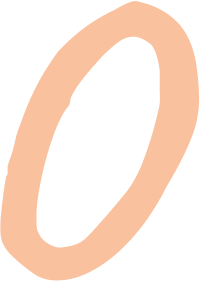
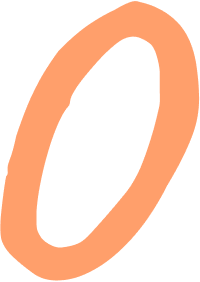
fix scoreboard, add quit button, change color scheme

diff --git a/resources/style.css b/resources/style.css
@@ -1,45 +1,52 @@
 /* Global Styles */
 window {
-  background: #181c4e;
-  font-family: "Comic Sans MS", "Chalkboard SE", "Comic Neue", sans-serif;
-  line-height: 0.85;
+  /* lighter, cheerful background with subtle radial texture feel */
+  background: linear-gradient(45deg, #67bbff, #67ffb6 100%);
+  /* playful but widely-available fallback font stack */
+  font-family: "Comic Neue", "Comic Sans MS", "Chalkboard SE", "Trebuchet MS",
+    sans-serif;
+  line-height: 1.15;
+  color: #21304a; /* general text color */
 }
 
 /* Typography */
 .h1 {
-  font-size: 96px;
+  font-size: 72px;
   font-weight: bold;
+  color: #cd5974;
 }
 
 .h2 {
-  font-size: 48px;
+  font-size: 36px;
   font-weight: bold;
+  color: #cd5974;
 }
 
 .h3 {
-  font-size: 24px;
+  font-size: 20px;
   font-weight: bold;
+  color: #cd5974;
 }
 
 /* Color Classes */
 .x {
-  color: #9efae4;
+  color: #499eff;
 }
 
 .o {
-  color: #fac19e;
+  color: #ff9f6b;
 }
 
 .easy {
-  color: #99ff99;
+  color: #9ee493;
 }
 
 .medium {
-  color: #ffff99;
+  color: #ffd97d;
 }
 
 .hard {
-  color: #ff9999;
+  color: #ff7b95;
 }
 
 /* Animations */
@@ -57,13 +64,13 @@ window {
 
 @keyframes glowing {
   0% {
-    box-shadow: 0 0 5px #3f4aad;
+    box-shadow: 0 0 6px rgba(0, 0, 0, 0.2);
   }
   50% {
-    box-shadow: 0 0 20px #3f4aad;
+    box-shadow: 0 0 18px rgba(0, 0, 0, 0.2);
   }
   100% {
-    box-shadow: 0 0 5px #3f4aad;
+    box-shadow: 0 0 6px rgba(0, 0, 0, 0.2);
   }
 }
 
@@ -92,16 +99,24 @@ window {
 .button-normal,
 .button-menu,
 dropdown > button {
-  background: #2f399d;
+  background: linear-gradient(180deg, #6b8cff 0%, #4d6df7 100%);
+  color: white;
   border-radius: 20px;
-  padding: 20px;
+  padding: 15px;
   transition: all 200ms;
+  box-shadow: 0 6px 0 #364cae;
+  border: none;
+}
+
+.button-normal > image {
+  padding: 20px;
+  -gtk-icon-transform: scale(2);
 }
 
 .button-normal:hover,
 .button-menu:hover,
 dropdown button:hover {
-  background: #3f4aad;
+  transform: translateY(-4px);
 }
 
 .button-round {
@@ -109,12 +124,8 @@ dropdown button:hover {
 }
 
 .button-menu {
-  font-size: 48px;
+  font-size: 44px;
   font-weight: bold;
-}
-
-.button-menu:hover {
-  transform: translateY(-2px);
 }
 
 .button-player {
@@ -128,7 +139,7 @@ dropdown > button {
 
 /* Game Board */
 .sboard {
-  background: #12153b;
+  background: rgba(255, 255, 255, 0.4);
   border-radius: 20px;
   padding: 10px 20px;
 }
@@ -140,27 +151,28 @@ dropdown > button {
 
 .cell {
   border: none;
-  background: #181c4e;
+  background: none;
 }
 
 .cell-center {
-  border: #b1b5e7 4px solid;
+  border: #ebefff 4px solid;
 }
 
 .cell-vertical {
-  border-left: #b1b5e7 4px solid;
-  border-right: #b1b5e7 4px solid;
+  border-left: #ebefff 4px solid;
+  border-right: #ebefff 4px solid;
 }
 
 .cell-horizontal {
-  border-top: #b1b5e7 4px solid;
-  border-bottom: #b1b5e7 4px solid;
+  border-top: #ebefff 4px solid;
+  border-bottom: #ebefff 4px solid;
 }
 
 /* Dropdown Style */
 popover.menu > contents,
 listview {
-  background: #2f399d;
+  background: linear-gradient(180deg, #6b8cff, #4d6df7);
+  color: #fff;
 }
 
 popover.menu > contents {
@@ -173,5 +185,5 @@ listview row {
 
 listview row:hover,
 listview row:selected {
-  background: #3f4aad;
+  background: #5662ca;
 }

diff --git a/src/app/main_menu.c b/src/app/main_menu.c
@@ -55,7 +55,10 @@ void main_menu(GtkBuilder* builder, GtkStack* stack) {
       GTK_WIDGET(gtk_builder_get_object(builder, "two_player"));
   GtkWidget* audio_toggle =
       GTK_WIDGET(gtk_builder_get_object(builder, "audio_toggle"));
-  if (!one_player || !two_player || !audio_toggle) {
+  GtkWidget* quit_game =
+      GTK_WIDGET(gtk_builder_get_object(builder, "quit_game"));
+  GtkWindow* window = GTK_WINDOW(gtk_builder_get_object(builder, "window"));
+  if (!one_player || !two_player || !audio_toggle || !quit_game || !window) {
     g_printerr("Error: Could not find main menu buttons.\n");
     return;
   }
@@ -65,4 +68,6 @@ void main_menu(GtkBuilder* builder, GtkStack* stack) {
   g_signal_connect_swapped(two_player, "clicked",
                            G_CALLBACK(two_player_clicked), builder);
   g_signal_connect(audio_toggle, "toggled", G_CALLBACK(toggle_audio), NULL);
+  g_signal_connect_swapped(quit_game, "clicked", G_CALLBACK(gtk_window_close),
+                           window);
 }

diff --git a/src/app/board_gui.c b/src/app/board_gui.c
@@ -312,6 +312,7 @@ static gboolean process_ai_move(gpointer user_data) {
  * @param stack Pointer to the GtkStack for navigation.
  */
 static void to_main_menu(GtkStack* stack) {
+  reset_scoreboard();
   reset_game_state();
   gtk_stack_set_visible_child_name(stack, "main_menu");
 }
@@ -349,6 +350,7 @@ static void change_difficulty(GtkDropDown* dropdown,
   // Only reset if difficulty actually changed
   if (g_game_state->difficulty == difficulty) return;
   set_difficulty(difficulty);
+  reset_scoreboard();
   reset_game_state();
 }
 

diff --git a/src/shared/naive_bayes.c b/src/shared/naive_bayes.c
@@ -36,7 +36,6 @@ static void invert_board(Board* board) {
 int load_nb_model(NaiveBayesModel* model, const char* model_path) {
   // Load from embedded binary data if file path is not provided
   if (model_path == NULL && nb_model_bin_len == sizeof(NaiveBayesModel)) {
-    printf("Loading Naive Bayes model from embedded data.\n");
     memcpy(model, nb_model_bin, sizeof(NaiveBayesModel));
     return 0;
   }

diff --git a/src/app/game.c b/src/app/game.c
@@ -65,3 +65,11 @@ Cell get_ai_move() {
   // Handicapped minimax for hard difficulty and default
   return minimax_find_move(&g_game_state.board, true);
 }
+
+int reset_scoreboard() {
+  if (!g_game_state_initalised) return -1;
+  g_game_state.stats.score_X = 0;
+  g_game_state.stats.score_O = 0;
+  g_game_state.stats.score_tie = 0;
+  return 0;
+}

diff --git a/src/app/game.h b/src/app/game.h
@@ -70,4 +70,10 @@ int set_difficulty(DifficultyLevel difficulty);
  */
 Cell get_ai_move();
 
+/**
+ * @brief Reset the scoreboard stats to zero.
+ * @return 0 on success, -1 if game state is not initalised.
+ */
+int reset_scoreboard();
+
 #endif  // GAME_H
